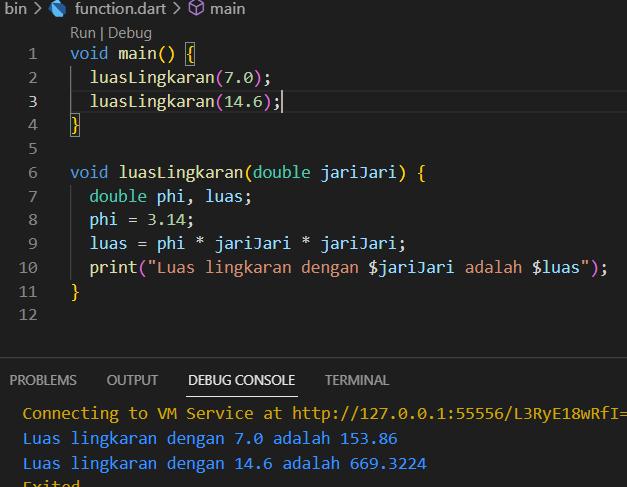
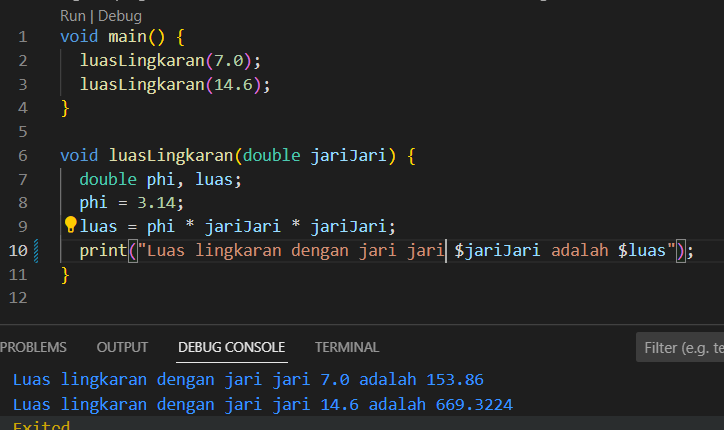
update section 7

Changed region(s): [[0.0, 0.3023, 1.0, 1.0], [0.0909, 0.3326, 0.9697, 0.6047], [0.0, 0.0, 0.4545, 0.2721]]

diff --git a/7_Branching-Looping-Function/Praktikum/function.dart b/7_Branching-Looping-Function/Praktikum/function.dart
@@ -7,5 +7,5 @@ void luasLingkaran(double jariJari) {
   double phi, luas;
   phi = 3.14;
   luas = phi * jariJari * jariJari;
-  print("Luas lingkaran dengan $jariJari adalah $luas");
+  print("Luas lingkaran dengan jari jari $jariJari adalah $luas");
 }
